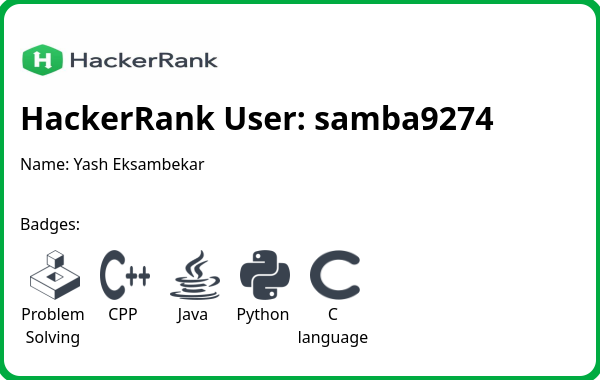
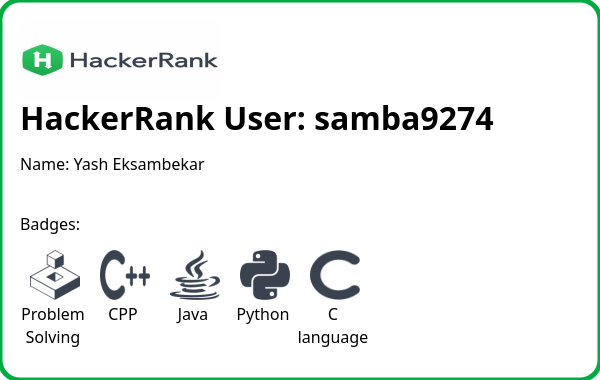
added border of light green color

Changed region(s): [[0.0, 0.0, 1.0, 1.0]]

diff --git a/src/createdGithubCard.js b/src/createdGithubCard.js
@@ -24,14 +24,14 @@ async function createGithubCard(data, logoPath, outputFile) {
   const badgesInRow = Math.floor((cardWidth - 40) / (badgeWidth + spaceBetweenBadges));
   const badgeRows = Math.ceil(data.badges.length / badgesInRow);
   const totalCardHeight = yOffsetStart + badgeRows * (badgeWidth + spaceBetweenBadges + 20) + 180;
-  
+
   // Create a canvas with curved corners
   const canvas = createCanvas(cardWidth, totalCardHeight);
   const ctx = canvas.getContext("2d");
 
   // Draw a rounded rectangle for the card background
   const cornerRadius = 20;
-  ctx.fillStyle = "white";
+  ctx.fillStyle = "white"; // Background color
   ctx.beginPath();
   ctx.moveTo(cornerRadius, 0);
   ctx.arcTo(cardWidth, 0, cardWidth, totalCardHeight, cornerRadius);
@@ -41,8 +41,8 @@ async function createGithubCard(data, logoPath, outputFile) {
   ctx.closePath();
   ctx.fill();
 
-  // Add a 2px grey border
-  ctx.lineWidth = 8;
+  // Add a 2px light green border
+  ctx.lineWidth = 5; // light green border width
   ctx.strokeStyle = "#00ab41"; // light green color
   ctx.stroke(); // Draw the border
 
@@ -53,7 +53,7 @@ async function createGithubCard(data, logoPath, outputFile) {
   }
   yOffset += 20;
 
-  // Set default font
+  // Set default font for username and name
   ctx.font = "bold 32px sans-serif";
   ctx.fillStyle = "black";
 
@@ -66,10 +66,11 @@ async function createGithubCard(data, logoPath, outputFile) {
 
   // Add badges section
   ctx.fillText("Badges:", 20, yOffset);
-  yOffset += 20; 
+  yOffset += 20;
 
   let xOffset = 30;
 
+  // Loop through the badges and add them
   for (let i = 0; i < data.badges.length; i++) {
     const badge = data.badges[i];
 
@@ -109,11 +110,11 @@ async function createGithubCard(data, logoPath, outputFile) {
         lines.push(currentLine); // Push the final line
 
         // Draw each line of the wrapped badge title
-        const donwLine = 5;
+        const downLine = 5;
         lines.forEach((lineText, index) => {
           // Center the text below the badge image
           ctx.fillText(lineText, xOffset + (badgeWidth - ctx.measureText(lineText).width) / 2, currentYOffset + index * lineHeight);
-          currentYOffset += donwLine; // Move down for the next line
+          currentYOffset += downLine; // Move down for the next line
         });
 
         // Update position for next badge
